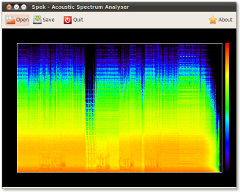
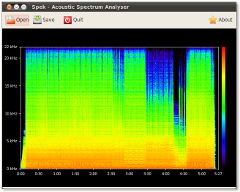
[web] Update screen-shots

diff --git a/web/index.html b/web/index.html
@@ -26,18 +26,18 @@
       <tr>
         <td><a href="flac.png"><img src="flac-small.png" width="240" height="192" alt="Spek showing a FLAC file"/></a></td>
         <td><a href="mp3.png"><img src="mp3-small.png" width="240" height="192" alt="Spek showing an MP3 file"/></a></td>
-        <td><a href="transcode.png"><img src="transcode-small.png" width="240" height="192" alt="Spek showing a transcoded file"/></a></td>
+        <td><a href="win7.png"><img src="win7-small.png" width="240" height="192" alt="Spek running under Windows 7"/></a></td>
       </tr>
       <tr>
-        <td>Spek showing the spectrogram of a FLAC file.</td>
-        <td>The same sound file encoded as a 320kbps MP3.</td>
-        <td>320kbps transcoded to -V2 MP3. <a href="http://wiki.hydrogenaudio.org/index.php?title=Transcoding">Don't do that</a>!</td>
+        <td>Spek in Ubuntu GNU/Linux showing the spectrogram of a FLAC file.</td>
+        <td>The same sound track encoded as a 320kbps MP3.</td>
+        <td>Spek running under Windows 7.</td>
       </tr>
     </table>
 
     <h2>Download</h2>
     <p><a href="http://spek.googlecode.com/files/spek-0.3.msi">Spek 0.3 for Windows</a> (x86 MSI installer, 17.1 MiB)</p>
-    <p><a href="http://spek.googlecode.com/files/spek-0.3.tar.bz2">Spek 0.3 for GNU/Linux</a> (source code tar.bz2, 188 KiB)</p>
+    <p><a href="http://spek.googlecode.com/files/spek-0.3.tar.bz2">Spek 0.3 for GNU/Linux</a> (source code tar.bz2, 192 KiB)</p>
     <p>To install on Windows just download and double-click the MSI installer. After asking a few questions, Spek will install automatically.</p>
     <p>To build and run on GNU/Linux:</p>
     <!-- HTML generated using hilite.me -->
